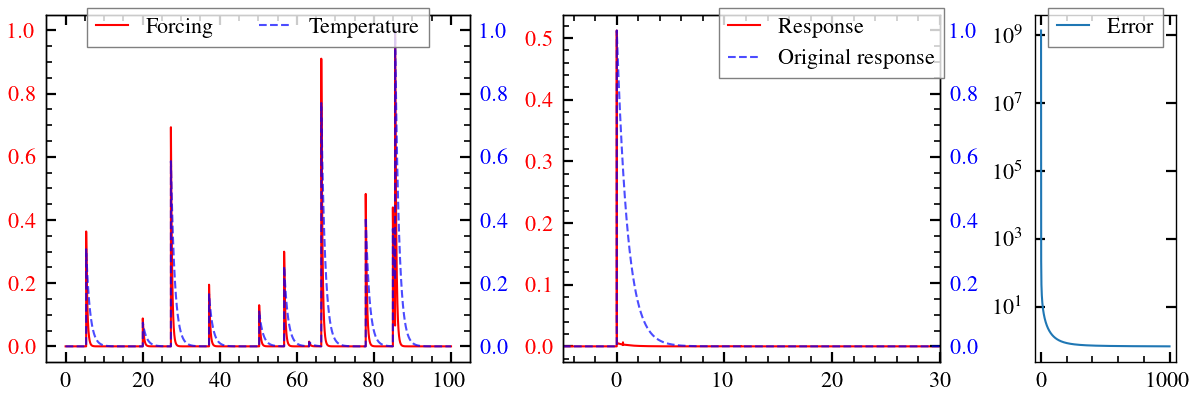
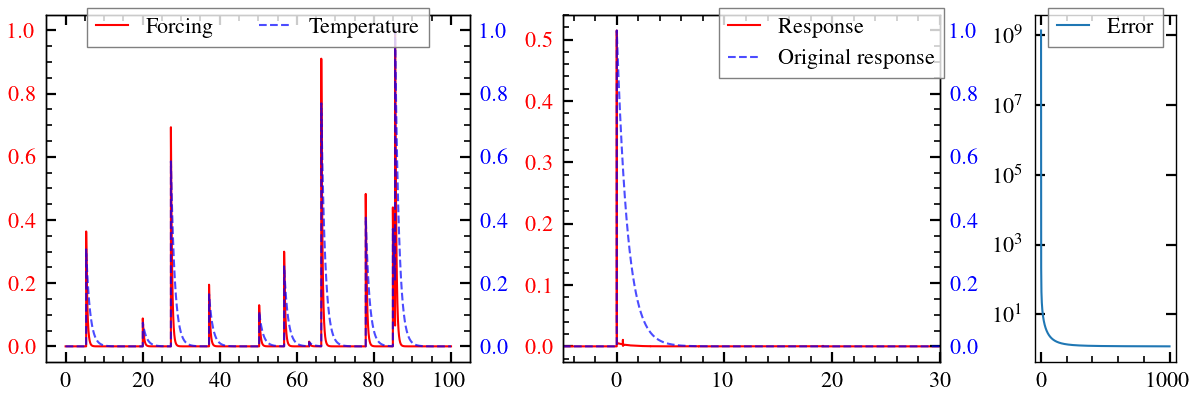
feat: add example with large unsync but delta pulses

diff --git a/de-verify.md b/de-verify.md
@@ -128,10 +128,17 @@ generate the temperature are shifted by one single index back, forward or nothin
 with equal probability. This has a big effect on the estimated response function,
 especially in the case where the forcing has a decay.
 
+In the third plot, the forcing has no decay, but the shift between arrival times are set
+to 100 indices (vs 1 above, where one index/step is one day), indicating how much harder
+it is to deconvolve when the forcing has a shape to it rather than just an arrival time
+and amplitude.
+
 ```python
 exp().peripheral_timeseries(shift=1, seed=seed).deconvolve(1_000).combined_view(save="v22", show=show)
 exp().peripheral_timeseries(shift=1, wide_forcing=True, seed=seed).deconvolve(1_000).combined_view(save="v23", show=show)
+exp().peripheral_timeseries(shift=100, seed=seed).deconvolve(1_000).combined_view(save="v24", show=show)
 ```
 
 ![v22](https://github.com/engeir/hack-md-notes/raw/main/assets/pic/de-verify/v22.png)
 ![v23](https://github.com/engeir/hack-md-notes/raw/main/assets/pic/de-verify/v23.png)
+![v24](https://github.com/engeir/hack-md-notes/raw/main/assets/pic/de-verify/v24.png)
